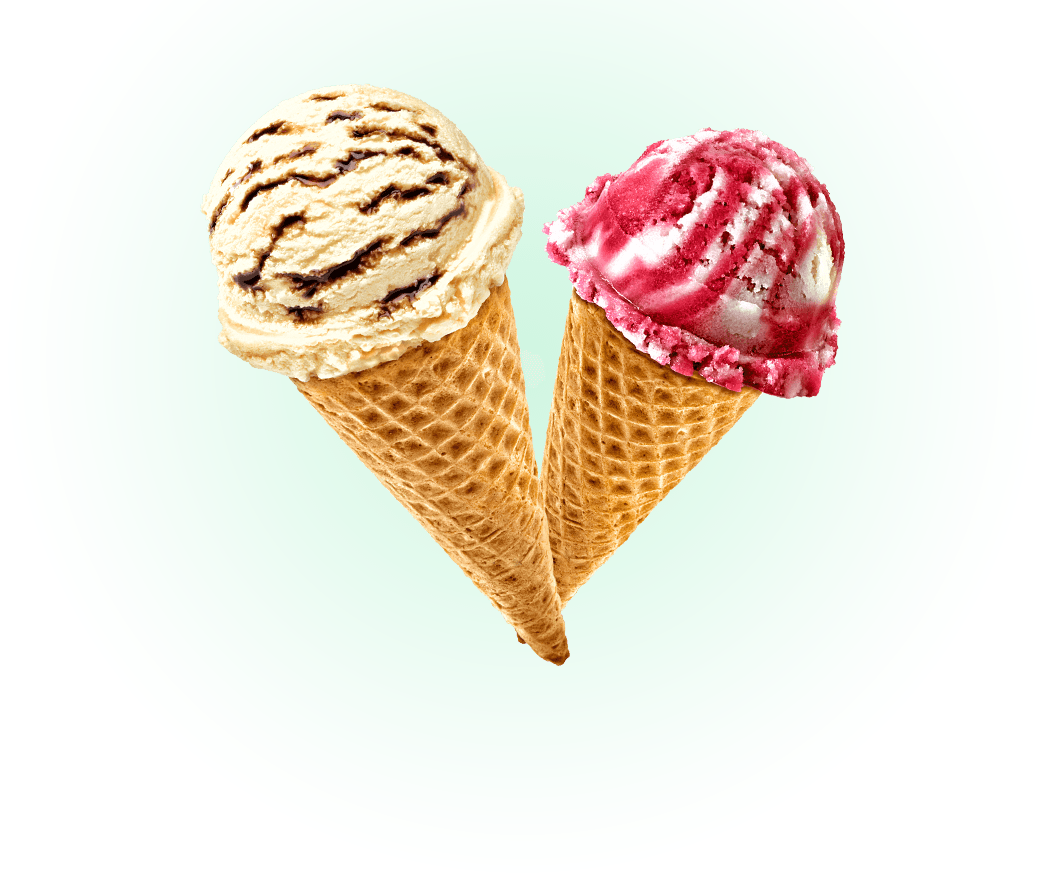
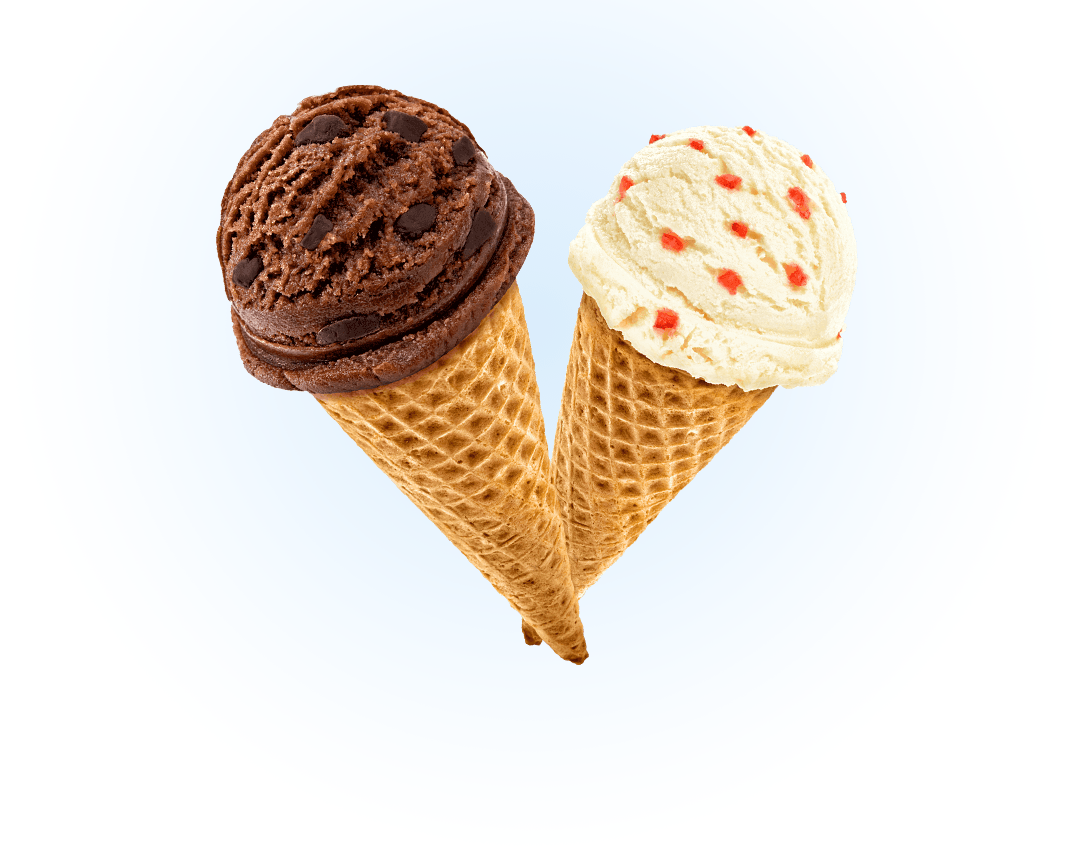
Начал делать функционал

Changed region(s): [[0.1837, 0.0908, 0.8268, 0.787]]

diff --git a/index.html b/index.html
@@ -93,17 +93,30 @@
 	</header>
 	<main class="conteiner">
 		<section class="offer">
-			<h1>Крем-брюле и пломбир <br> с малиновым джемом</h1>
+				<div class="slider-page-wrap">
+					<div class="slider-page page-one page-show">
+						<h1>Крем-брюле и пломбир <br> с малиновым джемом</h1>
+						<img src="img/ice-cream.png" alt="">
+					</div>
+					<div class="slider-page page-two">
+						<h1>Шоколадный пломбир <br>и лимонный сорбет</h1>
+						<img src="img/ice-cream2.png" alt="">
+					</div>
+					<div class="slider-page page-two">
+						<h1>Пломбир с помадкой <br> и клубничный щербет</h1>
+						<img src="img/ice-cream3.png" alt="">
+					</div>
+				</div>
 				<div class="slider-wrap">
 					<ul class="slider">
 						<li>
-							<label class="slider-item"><input type="radio" name="slider-number" checked><span class="radio-indicator"></span></label>
+							<label class="slider-item"><input type="radio" name="slider-number" checked><span class="radio-indicator" tabindex="0"></span></label>
 						</li>
 						<li>
-							<label class="slider-item"><input type="radio" name="slider-number"><span class="radio-indicator"></span></label>
+							<label class="slider-item"><input type="radio" name="slider-number"><span class="radio-indicator" tabindex="0"></span></label>
 						</li>
 						<li>
-							<label class="slider-item"><input type="radio" name="slider-number"><span class="radio-indicator"></span></label>
+							<label class="slider-item"><input type="radio" name="slider-number"><span class="radio-indicator" tabindex="0"></span></label>
 						</li>
 					</ul>
 					<a href="#" class="button-slider">Давайте оба!</a>
@@ -132,6 +145,7 @@
 				<span class="signature"><b>Сливочное с апельсиновым <br> джемом и цитрусовой стружкой</b>
 				</span>
 				<a href="#" class="button preview">Быстрый просмотр</a>
+				<span class="image-link-show"></span>
 			</p>
 			<p class="catalog-item">
 				<a href="#" class="image-link">`
@@ -141,6 +155,7 @@
 				<span class="signature"><b>Сливочно-кофейное с кусочками <br> шоколада</b>
 				</span>
 				<a href="#" class="button preview">Быстрый просмотр</a>
+				<span class="image-link-show"></span>
 			</p>
 			<p class="catalog-item">
 				<a href="#" class="image-link">
@@ -150,15 +165,17 @@
 				<span class="signature"><b>Сливочно-клубничное с <br> присыпкой из белого шоколада</b>
 				</span>
 				<a href="#" class="button preview">Быстрый просмотр</a>
+				<span class="image-link-show"></span>
 			</p>
 			<p class="catalog-item">
 				<a href="#" class="image-link">
 					<img src="img/catalog-image4.png" alt="">
 					<span class="price">415 &#8381<b>/кг</b></span>
-			</a>
+				</a>
 				<span class="signature"><b>Сливочное крем-брюле с <br> карамельной подливкой</b>
 				</span>
 				<a href="#" class="button preview">Быстрый просмотр</a>
+				<span class="image-link-show"></span>
 			</p>
 		</section>
 		<div class="about-shop">
@@ -305,6 +322,11 @@
 		var inputMail = document.querySelector(".feedback-header-mail");
 		var inputPass = document.querySelector(".feedback-header-pass");
 		var loginBlur = document.querySelector(".basket");
+		var radioIndicator = document.querySelectorAll(".radio-indicator");
+		var sliderPage = document.querySelectorAll(".slider-page")
+		var imageLink = document.querySelectorAll(".image-link");
+		var preview = document.querySelectorAll(".preview");
+		var imageShow = document.querySelectorAll(".image-link-show");
 		var modalClick = document.querySelector(".feedback-button");
 		var modal = document.querySelector(".modal");
 		var overlay = document.querySelector(".overlay");
@@ -349,6 +371,77 @@
 
 		inputPass.addEventListener("focus", function() {
 			loginShow.classList.add("feedback-header-show");
+		})
+
+		radioIndicator[0].addEventListener("click", function () {
+			sliderPage[1].classList.remove("page-show");
+			sliderPage[2].classList.remove("page-show");
+			sliderPage[0].classList.add("page-show");
+			document.body.style.backgroundColor="#849d8f";
+		})
+
+		radioIndicator[1].addEventListener("click", function () {
+			sliderPage[0].classList.remove("page-show");
+			sliderPage[2].classList.remove("page-show");
+			sliderPage[1].classList.add("page-show");
+			document.body.style.backgroundColor="#8996a6";
+			// document.body.style.backgroundImage='url(img/ice-cream2.png)';
+		})
+
+		radioIndicator[1].onclick = function() {
+		  console.log('da');
+
+		};
+
+		radioIndicator[2].addEventListener("click", function () {
+			sliderPage[0].classList.remove("page-show");
+			sliderPage[1].classList.remove("page-show");
+			sliderPage[2].classList.add("page-show");
+			document.body.style.backgroundColor="#9d8b84";
+		})
+
+		imageLink[0].addEventListener("focus", function() {
+			imageShow[0].classList.add("link-show");
+			preview[0].classList.add("preview-show");
+			console.log('1');
+		})
+
+		preview[0].addEventListener("blur", function() {
+			imageShow[0].classList.remove("link-show");
+			preview[0].classList.remove("preview-show");
+		})
+
+		imageLink[1].addEventListener("focus", function() {
+			imageShow[1].classList.add("link-show");
+			preview[1].classList.add("preview-show");
+			console.log('2');
+		})
+
+		preview[1].addEventListener("blur", function() {
+			imageShow[1].classList.remove("link-show");
+			preview[1].classList.remove("preview-show");
+		})
+
+		imageLink[2].addEventListener("focus", function() {
+			imageShow[2].classList.add("link-show");
+			preview[2].classList.add("preview-show");
+			console.log('2');
+		})
+
+		preview[2].addEventListener("blur", function() {
+			imageShow[2].classList.remove("link-show");
+			preview[2].classList.remove("preview-show");
+		})
+
+		imageLink[3].addEventListener("focus", function() {
+			imageShow[3].classList.add("link-show");
+			preview[3].classList.add("preview-show");
+			console.log('2');
+		})
+
+		preview[3].addEventListener("blur", function() {
+			imageShow[3].classList.remove("link-show");
+			preview[3].classList.remove("preview-show");
 		})
 
 		function remove(e) {

diff --git a/css/styles.css b/css/styles.css
@@ -7,9 +7,7 @@ body {
 	font-weight: 700;
 	color: #fff;
 	background-color: #849d8f;
-	background-image: url(../img/ice-cream.png);
-	background-repeat: no-repeat;
-	background-position: center top;
+	transition: 0.5s;
 }
 
 .visually-hidden:not(:focus):not(:active),
@@ -38,7 +36,8 @@ input[type="radio"].visually-hidden {
 .main-header {
 	display: flex;
 	justify-content: flex-start;
-	margin-bottom: 270px;
+	position: relative;
+	z-index: 1;
 }
 
 .header-logo {
@@ -351,10 +350,6 @@ input[type="radio"].visually-hidden {
 	display: block;
 }
 
-.border {
-	border: 1px solid red;
-}
-
 .feedback-header-form {
 	justify-content: space-around;
 	display: flex;
@@ -446,6 +441,7 @@ input[type="radio"].visually-hidden {
 	display: flex;
 	justify-content: space-between;
 	margin-bottom: 40px;
+	position: relative;
 }
 
 .button-slider, .button {
@@ -500,6 +496,44 @@ input[type="radio"].visually-hidden {
 	background-color: #b2c1b7;
 }
 
+.radio-indicator:focus {
+	background-color: #b2c1b7;
+}
+
+.slider-page-wrap {
+	height: 423px;
+	position: relative;
+}
+
+.slider-page {
+	transition: 0.5s;
+	opacity: 0;
+	top: 0;
+	height: 423px;
+	width: 100%;
+	position: absolute;
+}
+
+.slider-page h1 {
+	top: 270px;
+	z-index: 1;
+	width: 100%;
+	left: 0;
+	position: absolute;
+}
+
+.slider-page img {
+	top: -120px;
+	left: 50%;
+	z-index: -1;
+	margin-left: -523px;
+	position: absolute;
+}
+
+.page-show {
+	opacity: 1;
+}
+
 .radio-indicator {
 	display: inline-block;
 	width: 20px;
@@ -512,6 +546,8 @@ input[type="radio"].visually-hidden {
 .offer-block-wrap {
 	display: flex;
 	justify-content: space-between;
+	z-index: 1;
+	position: relative;
 }
 
 .offer-block-wrap {
@@ -597,6 +633,8 @@ input[type="radio"].visually-hidden {
 	margin: 0;
 	padding: 0;
 	font-weight: 500;
+	z-index: 1;
+	position: relative;
 	border-bottom: 1px solid rgba(255,255,255,0.2);
 }
 
@@ -606,6 +644,7 @@ input[type="radio"].visually-hidden {
 	max-height: 267px;
 	text-decoration: none;
 	position: relative;
+	z-index: 1;
 	margin-bottom: 14px;
 }
 
@@ -614,6 +653,7 @@ input[type="radio"].visually-hidden {
 	top: 211px;
 	color: #fff;
 	left: 0;
+	z-index: 1;
 	font-size: 45px;
 	line-height: 45px;
 }
@@ -629,6 +669,7 @@ input[type="radio"].visually-hidden {
 	padding-left: 15px;
 	padding-right: 15px;
 	text-shadow: none;
+	z-index: 1;
 	display: inline-block;
 	top: 338px;
 	left: 50%;
@@ -640,8 +681,12 @@ input[type="radio"].visually-hidden {
 	display: none;
 }
 
-.catalog-item:hover .preview, 
-.catalog-item:hover:before{
+.preview-show {
+	display: block;
+}
+
+.catalog-item:hover .preview,
+.catalog-item:hover .image-link-show{
 	display: block;
 }
 
@@ -651,10 +696,11 @@ input[type="radio"].visually-hidden {
 	position: absolute;
 	width: 60px;
 	height: 60px;
+	z-index: 1;
 	background-image: url(../img/hit.png);
 }
 
-.catalog-item:before {
+.image-link-show {
 	top: -6px;
 	left: -13px;
 	padding-left: 13px;
@@ -664,10 +710,15 @@ input[type="radio"].visually-hidden {
 	position: absolute;
 	width: 100%;
 	height: 100%;
+	z-index: 0;
 	background-color: rgba(255,255,255,0.2);
 	box-shadow: 0px 5px 60px 0px rgba(0,0,0,0.4);
 	border-radius: 5px;
 	display: none;
+}
+
+.link-show {
+	display: block;
 }
 
 /*Стилезация about-shop*/
@@ -929,7 +980,6 @@ footer .conteiner{
 }
 
 .social svg {
-
 	border: 3px solid #c2cec7;
 	border-radius: 50%;
 }
